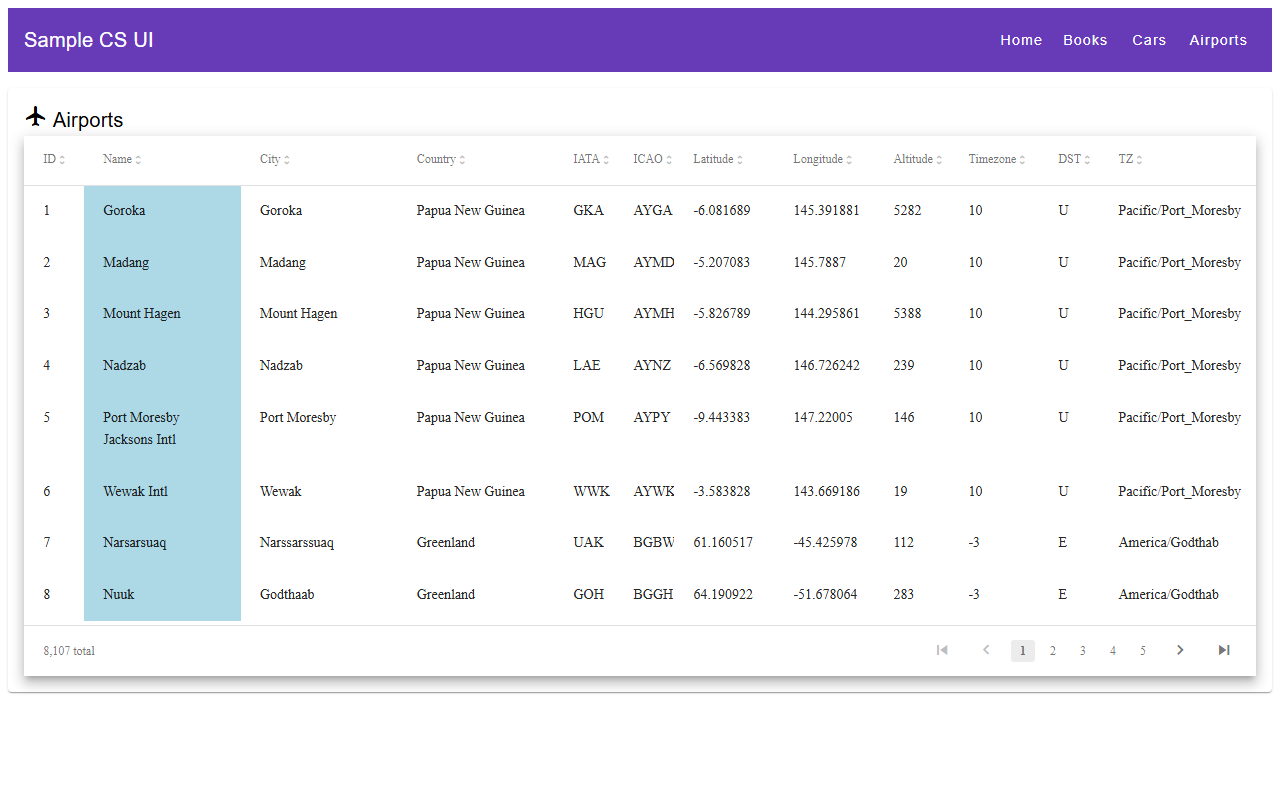
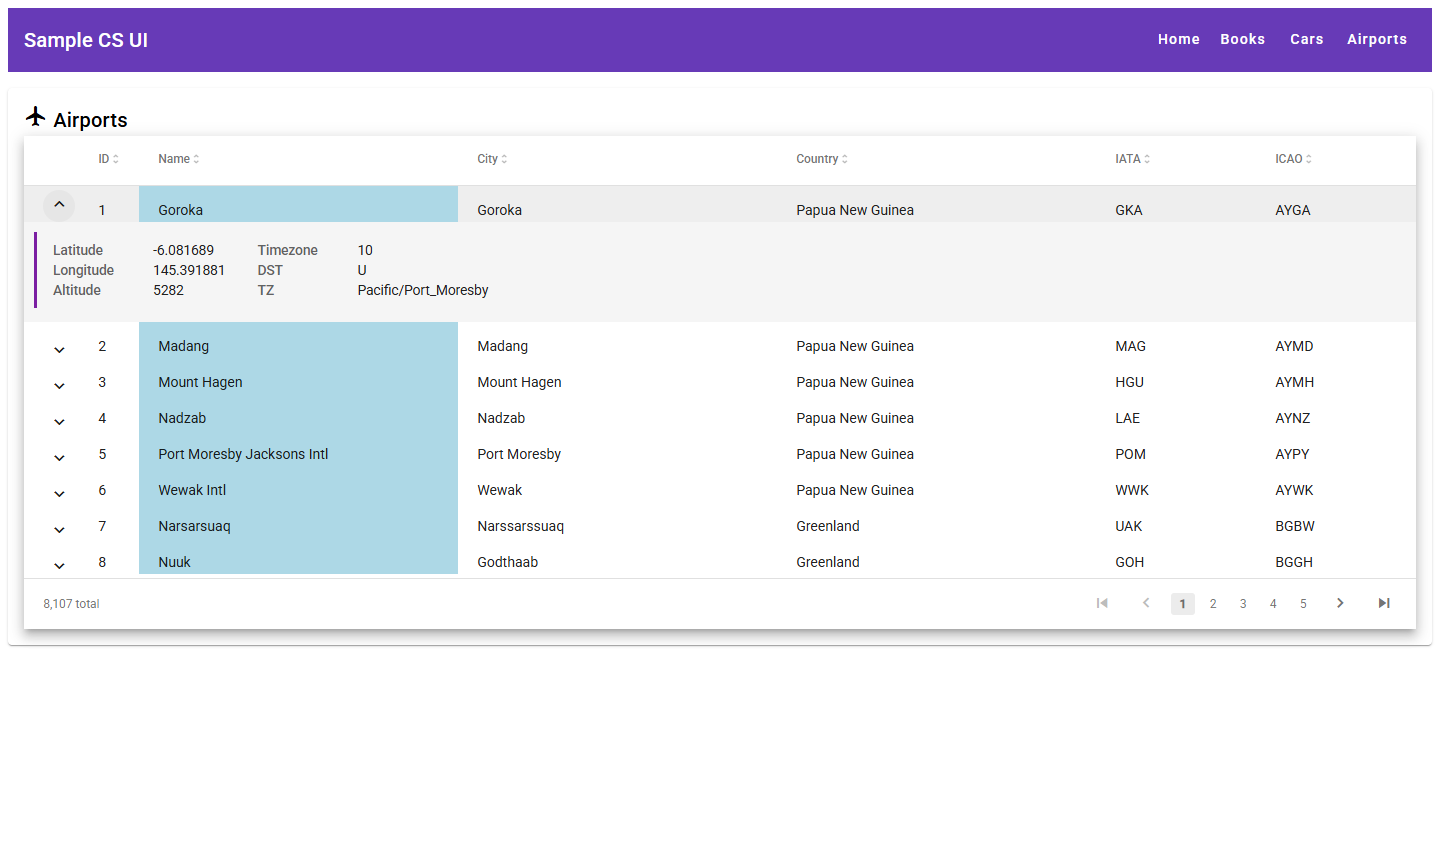
Add row detail to airports table, tune layout, refresh screenshots
- Add ngx-datatable row detail to airports list: expand/collapse button
  reveals latitude, longitude, altitude, timezone, DST and TZ per row
- Convert airports table from [columns] binding to <ngx-datatable-column>
  child elements (required to use row detail alongside column definitions)
- Fix fixed row height (36px) to prevent mat-icon-button inflating rows
- Widen toggle column to 55px, IATA/ICAO to 160px each
- Apply explicit Roboto weight-300 on the home page h1 to match Books style
- Update README stack table to Angular/NgRx/Material/PrimeNG 21
- Refresh all four screenshots: Home, Books, Cars, Airports (row expanded)

diff --git a/src/app/airports/airports-list/airports-list.component.html b/src/app/airports/airports-list/airports-list.component.html
@@ -8,13 +8,49 @@
     <ngx-datatable
       class="material"
       [rows]="airports$ | async"
-      [columns]="columns"
       [columnMode]="'force'"
       [sortType]="sortType"
       [headerHeight]="50"
       [footerHeight]="50"
-      [rowHeight]="'auto'"
+      [rowHeight]="36"
       [limit]="8">
+
+      <ngx-datatable-row-detail [rowHeight]="100">
+        <ng-template let-row="row" ngx-datatable-row-detail-template>
+          <div class="row-detail-container">
+            <div class="row-detail-group">
+              <span class="detail-label">Latitude</span><span class="detail-value">{{ row.latitude }}</span>
+              <span class="detail-label">Longitude</span><span class="detail-value">{{ row.longitude }}</span>
+              <span class="detail-label">Altitude</span><span class="detail-value">{{ row.altitude }}</span>
+            </div>
+            <div class="row-detail-group">
+              <span class="detail-label">Timezone</span><span class="detail-value">{{ row.timezone }}</span>
+              <span class="detail-label">DST</span><span class="detail-value">{{ row.dst }}</span>
+              <span class="detail-label">TZ</span><span class="detail-value">{{ row.tz }}</span>
+            </div>
+          </div>
+        </ng-template>
+      </ngx-datatable-row-detail>
+
+      <ngx-datatable-column name="" [width]="55" [resizeable]="false" [sortable]="false" [draggable]="false" [canAutoResize]="false">
+        <ng-template let-row="row" let-expanded="expanded" ngx-datatable-cell-template>
+          <button
+            class="toggle-btn"
+            mat-icon-button
+            [attr.aria-label]="(expanded ? 'Collapse' : 'Expand') + ' row ' + row.id"
+            (click)="toggleRowDetail(row)">
+            <mat-icon>{{ expanded ? 'expand_less' : 'expand_more' }}</mat-icon>
+          </button>
+        </ng-template>
+      </ngx-datatable-column>
+
+      <ngx-datatable-column name="ID" [maxWidth]="60"></ngx-datatable-column>
+      <ngx-datatable-column name="Name" cellClass="sample-lightblue"></ngx-datatable-column>
+      <ngx-datatable-column name="City"></ngx-datatable-column>
+      <ngx-datatable-column name="Country"></ngx-datatable-column>
+      <ngx-datatable-column name="IATA" [width]="160" [maxWidth]="160"></ngx-datatable-column>
+      <ngx-datatable-column name="ICAO" [width]="160" [maxWidth]="160"></ngx-datatable-column>
+
     </ngx-datatable>
   </mat-card-content>
 </mat-card>

diff --git a/src/app/airports/airports-list/airports-list.component.ts b/src/app/airports/airports-list/airports-list.component.ts
@@ -1,8 +1,9 @@
-import { Component, OnInit, OnDestroy, Input, AfterViewInit } from '@angular/core';
+import { Component, OnInit, OnDestroy, Input, AfterViewInit, ViewChild } from '@angular/core';
 import { CommonModule } from '@angular/common';
 import { MatCardModule } from '@angular/material/card';
 import { MatIconModule } from '@angular/material/icon';
-import { NgxDatatableModule, SortType } from '@swimlane/ngx-datatable';
+import { MatButtonModule } from '@angular/material/button';
+import { NgxDatatableModule, SortType, DatatableRowDetailDirective } from '@swimlane/ngx-datatable';
 import { Observable, Subscription } from 'rxjs';
 
 import { NGXLogger } from 'ngx-logger';
@@ -12,31 +13,16 @@ import { Airport } from '../airport.model';
 @Component({
   selector: 'app-airports-list',
   standalone: true,
-  imports: [CommonModule, MatCardModule, MatIconModule, NgxDatatableModule],
+  imports: [CommonModule, MatCardModule, MatIconModule, MatButtonModule, NgxDatatableModule],
   templateUrl: './airports-list.component.html',
   styleUrls: ['./airports-list.component.css']
 })
 export class AirportsListComponent implements OnInit, OnDestroy, AfterViewInit {
 
   @Input() public airports$!: Observable<Airport[]>;
+  @ViewChild(DatatableRowDetailDirective) public rowDetail!: DatatableRowDetailDirective;
 
   public sortType = SortType.single;
-
-  public columns = [
-    { name: 'ID', maxWidth: 60 },
-    { name: 'Name', cellClass: 'sample-lightblue' },
-    { name: 'City' },
-    { name: 'Country' },
-    { name: 'IATA', maxWidth: 60 },
-    { name: 'ICAO', maxWidth: 60 },
-    { name: 'Latitude', maxWidth: 100 },
-    { name: 'Longitude', maxWidth: 100 },
-    { name: 'Altitude', maxWidth: 75 },
-    { name: 'Timezone', maxWidth: 90 },
-    { name: 'DST', maxWidth: 60 },
-    { name: 'TZ' }
-  ];
-
   public airportsSubscription!: Subscription;
 
   constructor(private logger: NGXLogger) {
@@ -57,5 +43,9 @@ export class AirportsListComponent implements OnInit, OnDestroy, AfterViewInit {
   public ngOnDestroy() {
     this.logger.info('AirportsListComponent:', 'ngOnDestroy()');
     this.airportsSubscription.unsubscribe();
+  }
+
+  public toggleRowDetail(row: Airport) {
+    this.rowDetail.toggleExpandRow(row);
   }
 }

diff --git a/src/app/airports/airports-list/airports-list.component.css b/src/app/airports/airports-list/airports-list.component.css
@@ -1,0 +1,41 @@
+/* shrink the icon button to fit within the fixed 36px row height */
+.toggle-btn {
+  width: 32px;
+  height: 32px;
+  line-height: 32px;
+  padding: 0;
+}
+
+.toggle-btn .mat-icon {
+  font-size: 20px;
+  width: 20px;
+  height: 20px;
+  line-height: 20px;
+}
+
+/* row detail panel */
+.row-detail-container {
+  display: flex;
+  gap: 32px;
+  padding: 10px 16px;
+  background: #f5f5f5;
+  border-left: 3px solid #7b1fa2;
+}
+
+.row-detail-group {
+  display: grid;
+  grid-template-columns: 90px 1fr;
+  gap: 4px 10px;
+  align-content: start;
+}
+
+.detail-label {
+  font-weight: 500;
+  color: rgba(0, 0, 0, 0.6);
+  font-size: 0.85rem;
+}
+
+.detail-value {
+  font-size: 0.85rem;
+  color: rgba(0, 0, 0, 0.87);
+}

diff --git a/src/app/home/home.component.html b/src/app/home/home.component.html
@@ -6,7 +6,7 @@
   </mat-card-header>
   <mat-card-content>
     <div style="text-align:center">
-      <h1>
+      <h1 style="font-family: Roboto, sans-serif; font-weight: 300;">
         Welcome to {{ title }}
       </h1>
     </div>

diff --git a/README.md b/README.md
@@ -6,9 +6,9 @@ A sample Angular application demonstrating how to integrate a modern Angular sta
 
 | Layer | Technology |
 |---|---|
-| Framework | [Angular 18](https://angular.dev) (standalone components) |
-| State management | [NgRx 18](https://ngrx.io) — Store, Effects, Router Store, Devtools |
-| UI components | [Angular Material 18](https://material.angular.io) + [PrimeNG 18](https://primeng.org) |
+| Framework | [Angular 21](https://angular.dev) (standalone components) |
+| State management | [NgRx 21](https://ngrx.io) — Store, Effects, Router Store, Devtools |
+| UI components | [Angular Material 21](https://material.angular.io) + [PrimeNG 21](https://primeng.org) |
 | Data grid | [@swimlane/ngx-datatable 20](https://swimlane.github.io/ngx-datatable/) |
 | Logging | [ngx-logger 5](https://github.com/dbfannin/ngx-logger) |
 | Node.js | 24.x |
@@ -36,7 +36,7 @@ The app has four pages, each demonstrating a different UI approach backed by the
 | **Home** | Angular Material | Landing page with a Material card |
 | **Books** | Angular Material | Paginated table (`mat-table`) with row selection via radio buttons |
 | **Cars** | PrimeNG | Paginated table (`p-table`) and detail form (`p-panel`, `pInputText`) |
-| **Airports** | ngx-datatable | High-performance data grid with sortable columns (8 107 rows) |
+| **Airports** | ngx-datatable | High-performance data grid with sortable columns and expandable row detail (8 107 rows) |
 
 Navigation is handled through the NgRx router store: toolbar buttons dispatch `[Router] Go` actions rather than calling the Angular router directly.
 
@@ -104,7 +104,7 @@ There is no real backend. The services fetch JSON fixture files directly from `s
 
 ## PrimeNG theming
 
-PrimeNG 18 uses a programmatic theme system. The theme is configured in `src/main.ts` via `providePrimeNG()` with the `Aura` preset from `@primeng/themes`. To switch theme, replace `Aura` with another preset (`Lara`, `Nora`, `Material`) from the same package.
+PrimeNG 21 uses a programmatic theme system. The theme is configured in `src/main.ts` via `providePrimeNG()` with the `Aura` preset from `@primeng/themes`. To switch theme, replace `Aura` with another preset (`Lara`, `Nora`, `Material`) from the same package.
 
 ## Running tests
 
